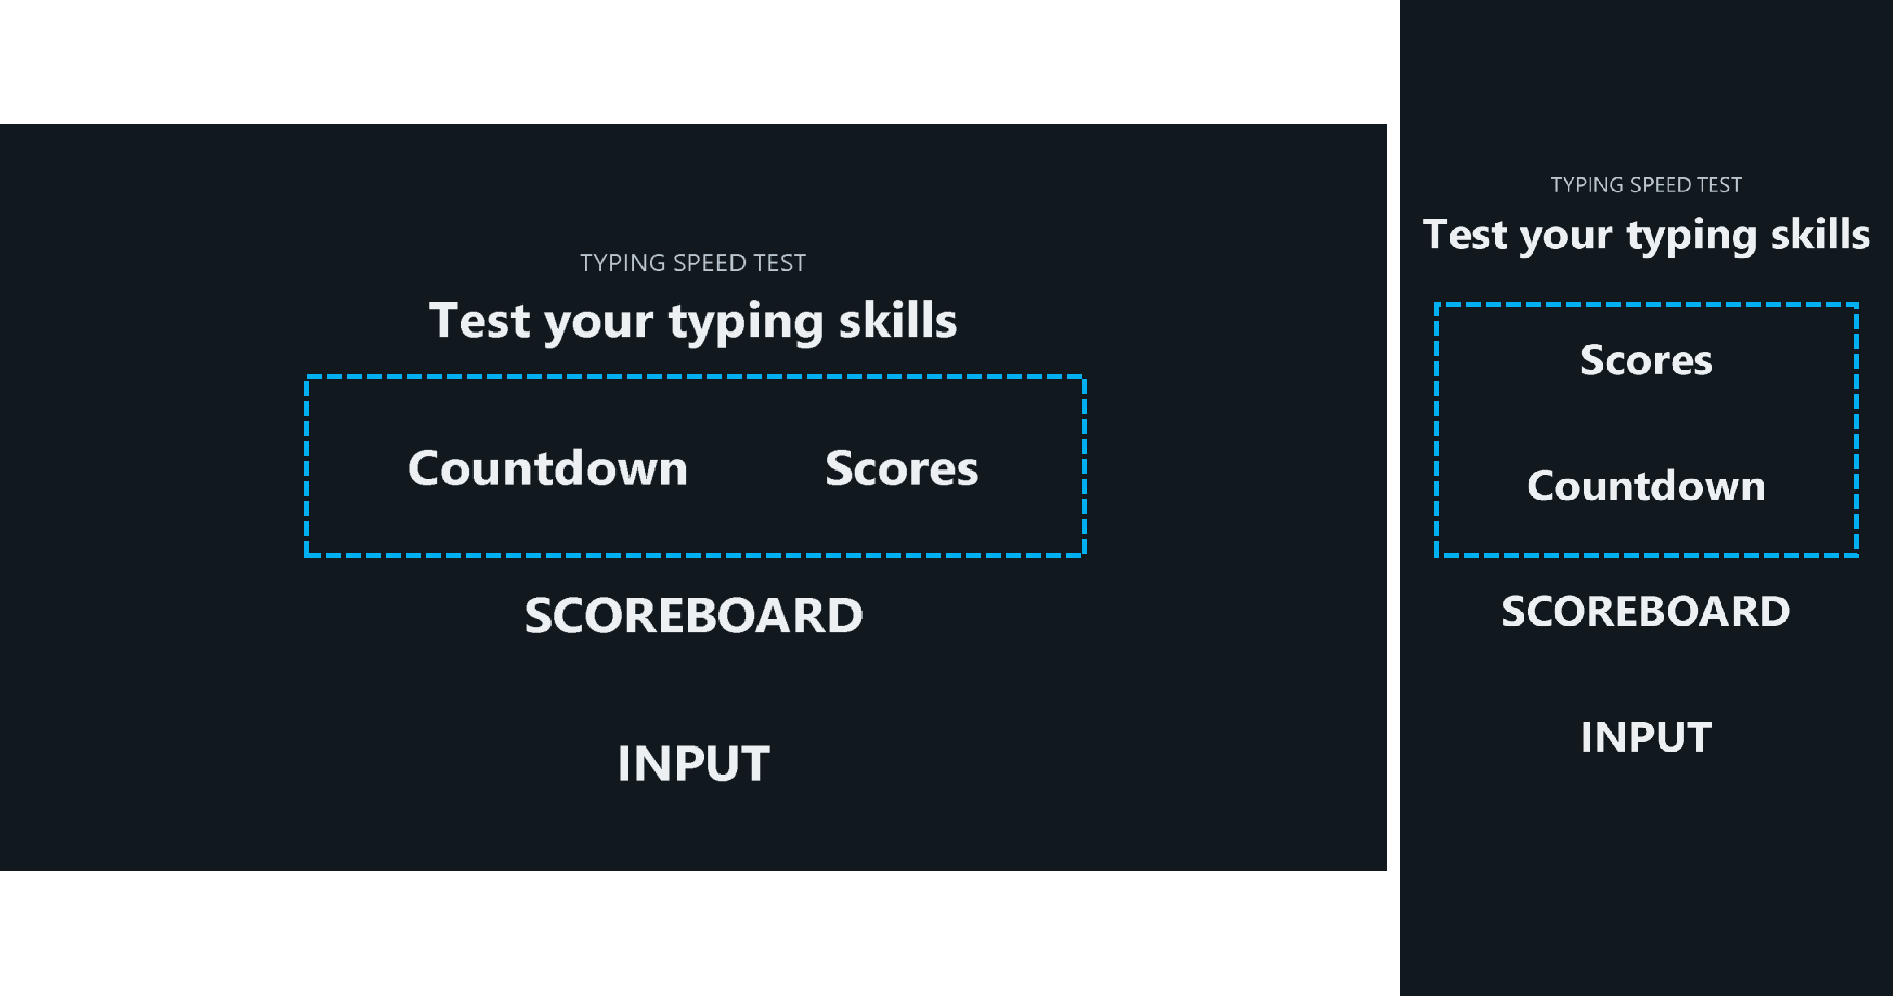
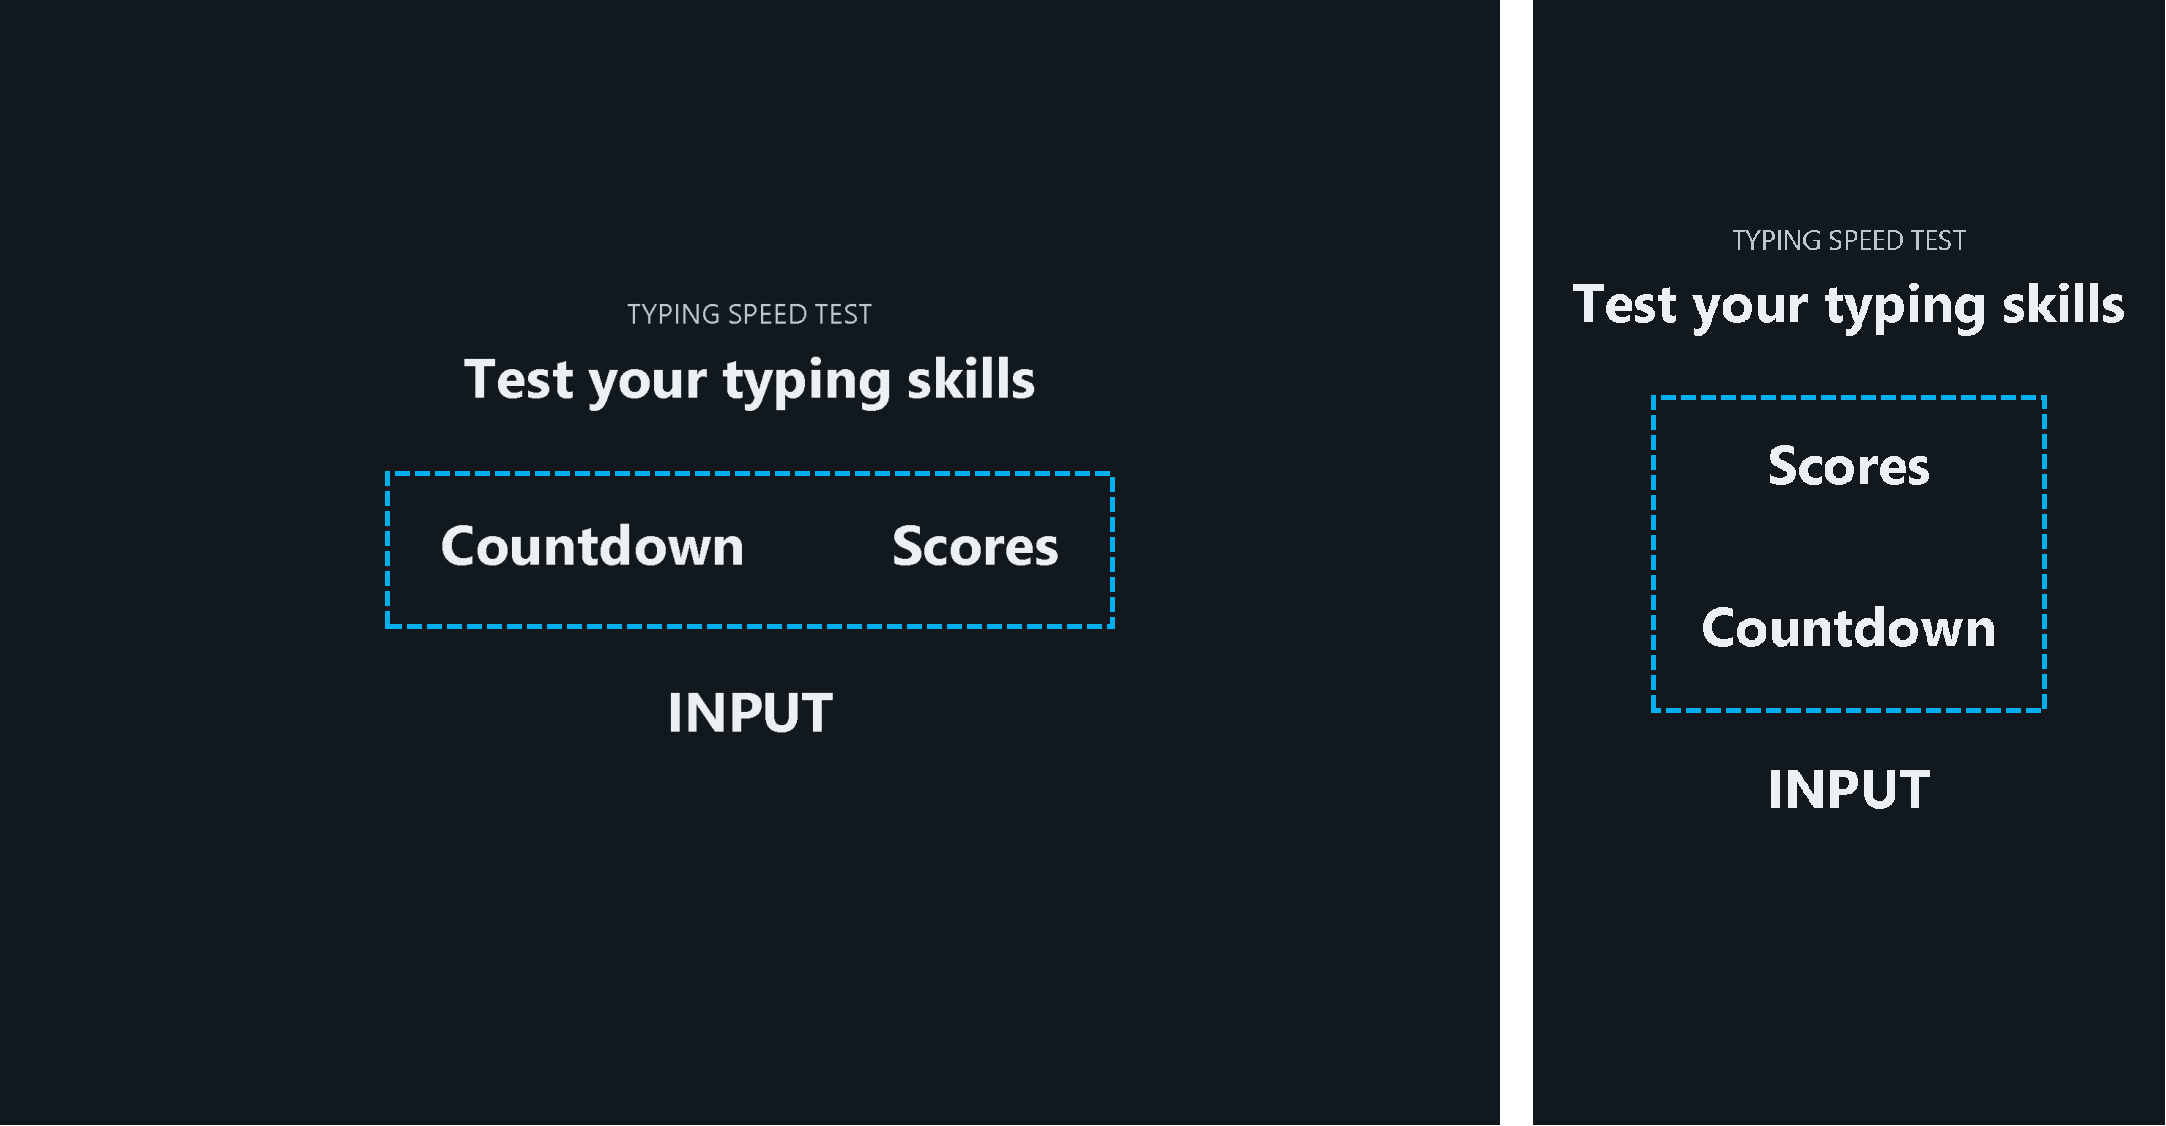
LiveChat typing speed test: documentation: scoreboard, add new images and explanation

diff --git a/src/lib/posts/livechat-typing-test-clone/documentation.md b/src/lib/posts/livechat-typing-test-clone/documentation.md
@@ -11,6 +11,12 @@ Screenshot below is the original application.
 
 I used __Sveltekit__ (javascript framework) and __Pico CSS__ for the styles (note: demo above used Pico CSS but with slight modification, which I will not cover in this documentation as it is so small and does not changes much). 
 
+Note: To add or remove html elements / lines of codes / functions, I use these annotations:
+|Annotations|Means|
+|---|---|
+|✅|add|
+|❌|remove|
+
 # Setup
 
 1. Scaffold your Sveltekit project. Refer [here](https://kit.svelte.dev/docs/creating-a-project 'go to official documentation on how to scaffold a sveltekit project') if you don't know how. 
@@ -78,7 +84,7 @@ the page will center them.
 
 # Cloning the Title
 
-From this:
+from this:
 ![liveChat typing speed test title](/src/lib/posts/livechat-typing-test-clone/cloning-title-01.png)
 to this:
 ![clone title](/src/lib/posts/livechat-typing-test-clone/cloning-title-02.png)
@@ -114,11 +120,48 @@ h1.title::first-letter{ /* only first letter capitalize */
 
 ## Scoreboard Layout
 
-In the original scoreboard, countdown is at the left in desktop view. When in mobile view, the countdown is at the bottom.
-
+from this:
 ![LiveChat typing speed test scoreboard](/src/lib/posts/livechat-typing-test-clone/cloning-scoreboard-01.png)
 
+to this:
 ![LiveChat typing speed test scoreboard](/src/lib/posts/livechat-typing-test-clone/cloning-scoreboard-02.png)
+
+Notice in the original application's scoreboard, the countdown goes to the bottom in mobile view. I will use `flex-direction: row-reverse;` and arrange child elements in reverse so it behave the same way.
+
+
+`src > routes > +page.svelte`
+
+I add these elements (scores comes first):
+
+```html
+<div id="scoreboard">✅
+	<div>
+		<h1>Scores</h1>
+	</div>
+	<div>
+		<h1>Countdown</h1>
+	</div>
+</div>
+<h1>SCOREBOARD</h1>❌
+```
+
+and style it:
+
+```css
+#scoreboard {
+	display: flex;
+	flex-direction: row-reverse;
+	flex-wrap: wrap;
+    justify-content: center;
+}
+
+#scoreboard > div {
+    padding-inline: 50px; /* temporary */
+}
+
+```
+
+
 
 ## Countdown
 
